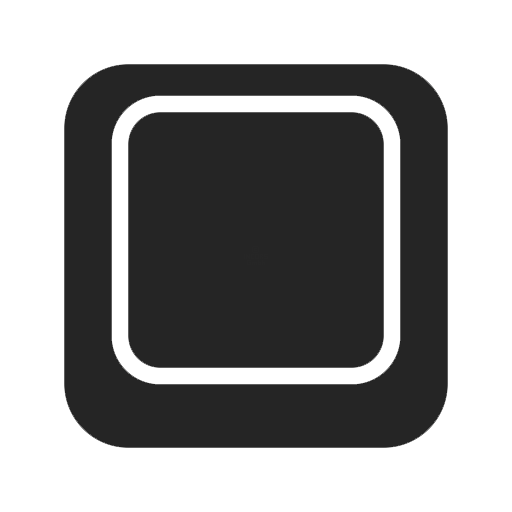
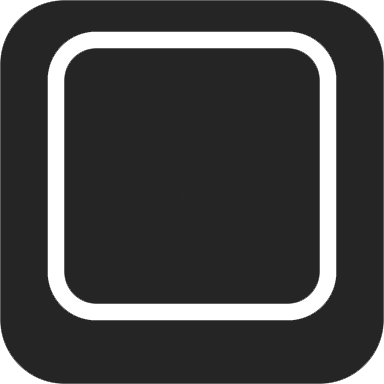
crop images; add images on buttons

diff --git a/main.py b/main.py
@@ -5,6 +5,7 @@ import threading
 import keyboard
 import configparser
 from textwrap import dedent, indent
+from PIL import Image, ImageTk
 
 MOUSE_EVENT_MOVE = 0x0001
 MOUSE_EVENT_LEFTDOWN = 0x0002
@@ -143,10 +144,18 @@ class App:
         self.window.geometry(f'{self.x_size}x{self.y_size}')
         self.window.title('AutoClicker')
 
-        self.icon_main_name = 'data/images/transparent.ico'
+        # load images
+        self.icon_name = 'data/images/transparent.ico'
         self.icon_save_button = 'data/images/save.png'
 
-        self.window.iconbitmap(default=self.icon_main_name)
+        self.icon_save_button_img = Image.open(self.icon_save_button).resize((50, 50))
+        self.icon_save_button_img = ImageTk.PhotoImage(self.icon_save_button_img)
+
+        self.icon_key_button = 'data/images/key_0.png'
+        self.icon_key_button_img = Image.open(self.icon_key_button).resize((50, 50))
+        self.icon_key_button_img = ImageTk.PhotoImage(self.icon_key_button_img)
+
+        self.window.iconbitmap(default=self.icon_name)
         self.window.protocol('WM_DELETE_WINDOW', self.on_closing)
 
         # getting config
@@ -157,7 +166,7 @@ class App:
 
         self.autoclicker = AutoClicker(button=self.button, delay=self.delay, interval=self.interval)
 
-        self.hotkey_button = tk.Button(width=8, height=2, command=self.get_key, text='Press key')
+        self.hotkey_button = tk.Button(command=self.get_key, image=self.icon_key_button_img, bd=0, highlightthickness=0)
         self.hotkey_button.grid()
 
         self.hotkey = keyboard.add_hotkey(self.hotkey_key, self.toggle_autoclicker)
@@ -181,7 +190,7 @@ class App:
         self.click_button_input.bind("<KeyRelease>", self.update_current_button_label)
         self.click_button_input.grid()
 
-        self.button_save_config = tk.Button(text='Save to config')
+        self.button_save_config = tk.Button(command=self.save_config_button, image=self.icon_save_button_img, bd=0, highlightthickness=0)
         self.button_save_config.grid()
 
         self.window.mainloop()
@@ -190,6 +199,7 @@ class App:
         self.update_values()
         if self.autoclicker.running:
             self.autoclicker.stop()
+            print('Stop')
         else:
             if not self.autoclicker.running:
                 print(f'Run with:\n{self.values_str(4)}')
